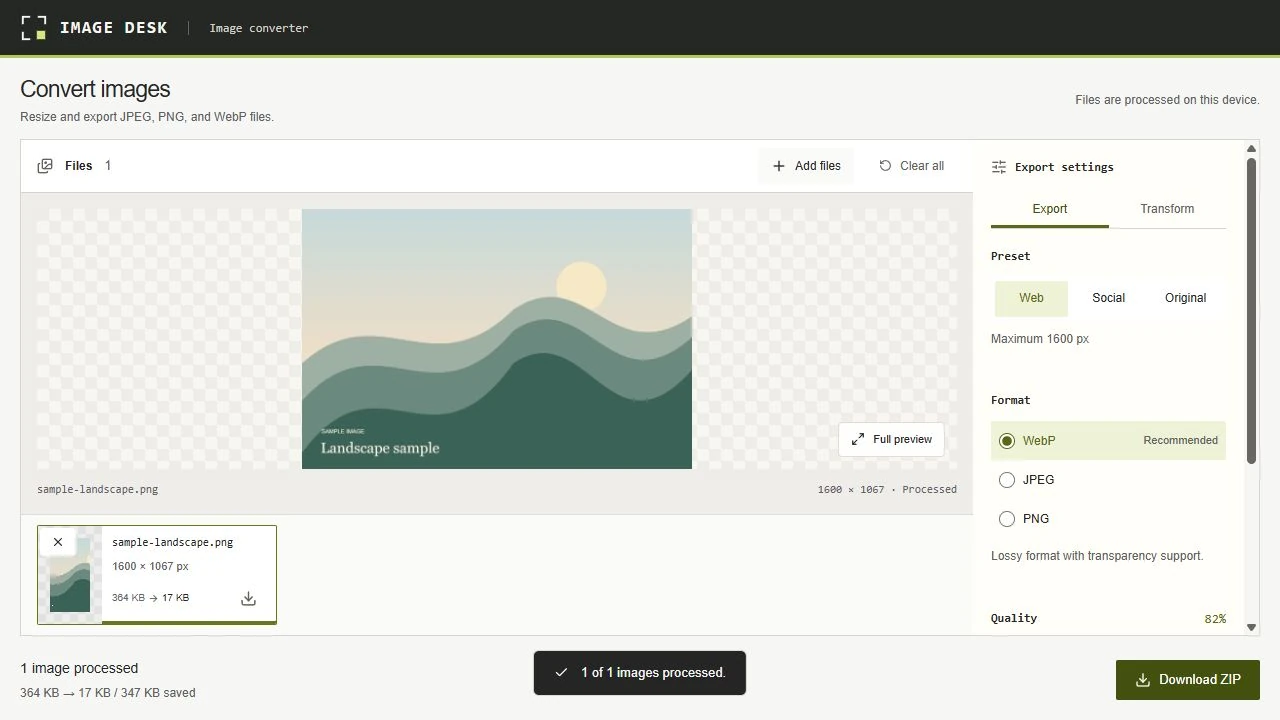
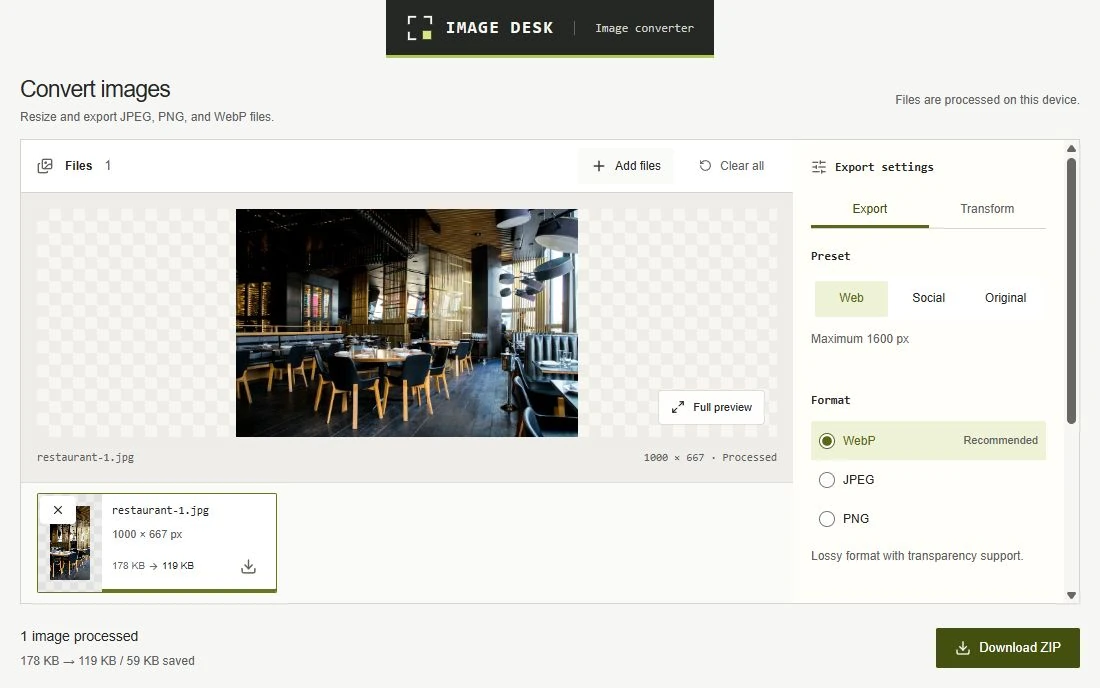
Replace project covers with fresh captures of working app states

diff --git a/index.html b/index.html
@@ -421,7 +421,7 @@
           <div class="projects-grid">
             <article class="project-card project-card--app project-card--touchline">
               <figure class="project-card__media project-card__media--touchline">
-                  <img src="assets/projects/touchline-cover.webp?v=20261108-frames" srcset="assets/projects/touchline-cover-640.webp?v=20261108-frames 640w, assets/projects/touchline-cover.webp?v=20261108-frames 1280w" sizes="(max-width: 600px) calc(100vw - 76px), (max-width: 1000px) calc((100vw - 100px) / 2), 520px" alt="Extra Time running with a compact goal list, match scores and a large video player" width="1280" height="720" loading="lazy" decoding="async" />
+                  <img src="assets/projects/touchline-cover.webp?v=20261108-captures" srcset="assets/projects/touchline-cover-640.webp?v=20261108-captures 640w, assets/projects/touchline-cover.webp?v=20261108-captures 1100w" sizes="(max-width: 600px) calc(100vw - 76px), (max-width: 1000px) calc((100vw - 100px) / 2), 520px" alt="Extra Time playing an Atlético Madrid–Barcelona goal, with team crests and the goal queue" width="1100" height="688" loading="lazy" decoding="async" />
                 </figure>
               <div class="project-card__topline">
                 <h3 class="project-card__title"><a href="https://jpndmatos.github.io/touchline/" target="_blank" rel="noopener noreferrer">Extra Time</a></h3>
@@ -437,7 +437,7 @@
 
             <article class="project-card project-card--app">
               <figure class="project-card__media project-card__media--split">
-                  <img src="assets/projects/split-cover.webp?v=20261108-frames" srcset="assets/projects/split-cover-640.webp?v=20261108-frames 640w, assets/projects/split-cover.webp?v=20261108-frames 1280w" sizes="(max-width: 600px) calc(100vw - 76px), (max-width: 1000px) calc((100vw - 100px) / 2), 520px" alt="Split warm paper ledger with shared totals and an expense list" width="1280" height="720" loading="lazy" decoding="async" />
+                  <img src="assets/projects/split-cover.webp?v=20261108-captures" srcset="assets/projects/split-cover-640.webp?v=20261108-captures 640w, assets/projects/split-cover.webp?v=20261108-captures 1100w" sizes="(max-width: 600px) calc(100vw - 76px), (max-width: 1000px) calc((100vw - 100px) / 2), 520px" alt="Split warm paper ledger with shared totals and an expense list" width="1100" height="688" loading="lazy" decoding="async" />
                 </figure>
               <div class="project-card__topline">
                 <h3 class="project-card__title">
@@ -457,7 +457,7 @@
 
             <article class="project-card project-card--app">
               <figure class="project-card__media project-card__media--overlap">
-                  <img src="assets/projects/overlap-cover.webp?v=20261108-frames" srcset="assets/projects/overlap-cover-640.webp?v=20261108-frames 640w, assets/projects/overlap-cover.webp?v=20261108-frames 1280w" sizes="(max-width: 600px) calc(100vw - 76px), (max-width: 1000px) calc((100vw - 100px) / 2), 520px" alt="Overlap blue city timelines with local times and a shared meeting window" width="1280" height="720" loading="lazy" decoding="async" />
+                  <img src="assets/projects/overlap-cover.webp?v=20261108-captures" srcset="assets/projects/overlap-cover-640.webp?v=20261108-captures 640w, assets/projects/overlap-cover.webp?v=20261108-captures 1280w" sizes="(max-width: 600px) calc(100vw - 76px), (max-width: 1000px) calc((100vw - 100px) / 2), 520px" alt="Overlap showing a shared meeting window across Lisbon, New York and London" width="1280" height="800" loading="lazy" decoding="async" />
                 </figure>
               <div class="project-card__topline">
                 <h3 class="project-card__title">
@@ -478,7 +478,7 @@
 
             <article class="project-card project-card--app">
               <figure class="project-card__media project-card__media--image">
-                  <img src="assets/projects/image-desk-cover.webp?v=20261108-frames" srcset="assets/projects/image-desk-cover-640.webp?v=20261108-frames 640w, assets/projects/image-desk-cover.webp?v=20261108-frames 1280w" sizes="(max-width: 600px) calc(100vw - 76px), (max-width: 1000px) calc((100vw - 100px) / 2), 520px" alt="Image Desk processed image and export controls" width="1280" height="720" loading="lazy" decoding="async" />
+                  <img src="assets/projects/image-desk-cover.webp?v=20261108-captures" srcset="assets/projects/image-desk-cover-640.webp?v=20261108-captures 640w, assets/projects/image-desk-cover.webp?v=20261108-captures 1100w" sizes="(max-width: 600px) calc(100vw - 76px), (max-width: 1000px) calc((100vw - 100px) / 2), 520px" alt="Image Desk converting a photograph to WebP, with export settings and file-size savings" width="1100" height="688" loading="lazy" decoding="async" />
                 </figure>
               <div class="project-card__topline">
                 <h3 class="project-card__title">
@@ -499,7 +499,7 @@
 
             <article class="project-card project-card--app">
               <figure class="project-card__media project-card__media--eateasy">
-                  <img src="assets/projects/eateasy-cover.webp?v=20261108-frames" srcset="assets/projects/eateasy-cover-640.webp?v=20261108-frames 640w, assets/projects/eateasy-cover.webp?v=20261108-frames 1280w" sizes="(max-width: 600px) calc(100vw - 76px), (max-width: 1000px) calc((100vw - 100px) / 2), 520px" alt="EatEasy restaurant dashboard with cuisine filters and booking actions" width="1280" height="720" loading="lazy" decoding="async" />
+                  <img src="assets/projects/eateasy-cover.webp?v=20261108-captures" srcset="assets/projects/eateasy-cover-640.webp?v=20261108-captures 640w, assets/projects/eateasy-cover.webp?v=20261108-captures 1100w" sizes="(max-width: 600px) calc(100vw - 76px), (max-width: 1000px) calc((100vw - 100px) / 2), 520px" alt="EatEasy restaurant dashboard with cuisine filters and booking actions" width="1100" height="688" loading="lazy" decoding="async" />
                 </figure>
               <div class="project-card__topline">
                 <h3 class="project-card__title">
@@ -524,7 +524,7 @@
 
             <article class="project-card project-card--app">
               <figure class="project-card__media">
-                  <img src="assets/projects/relay-cover.webp?v=20261108-frames" srcset="assets/projects/relay-cover-640.webp?v=20261108-frames 640w, assets/projects/relay-cover.webp?v=20261108-frames 1280w" sizes="(max-width: 600px) calc(100vw - 76px), (max-width: 1000px) calc((100vw - 100px) / 2), 520px" alt="Relay incident queue with severity, recovery stages and service health from the running .NET application" width="1280" height="720" loading="lazy" decoding="async" />
+                  <img src="assets/projects/relay-cover.webp?v=20261108-captures" srcset="assets/projects/relay-cover-640.webp?v=20261108-captures 640w, assets/projects/relay-cover.webp?v=20261108-captures 1100w" sizes="(max-width: 600px) calc(100vw - 76px), (max-width: 1000px) calc((100vw - 100px) / 2), 520px" alt="Relay incident queue with severity, recovery stages and service health from the running .NET application" width="1100" height="688" loading="lazy" decoding="async" />
                 </figure>
               <div class="project-card__topline">
                 <h3 class="project-card__title"><a href="https://github.com/jpndmatos/relay" target="_blank" rel="noopener noreferrer">Relay</a></h3>
